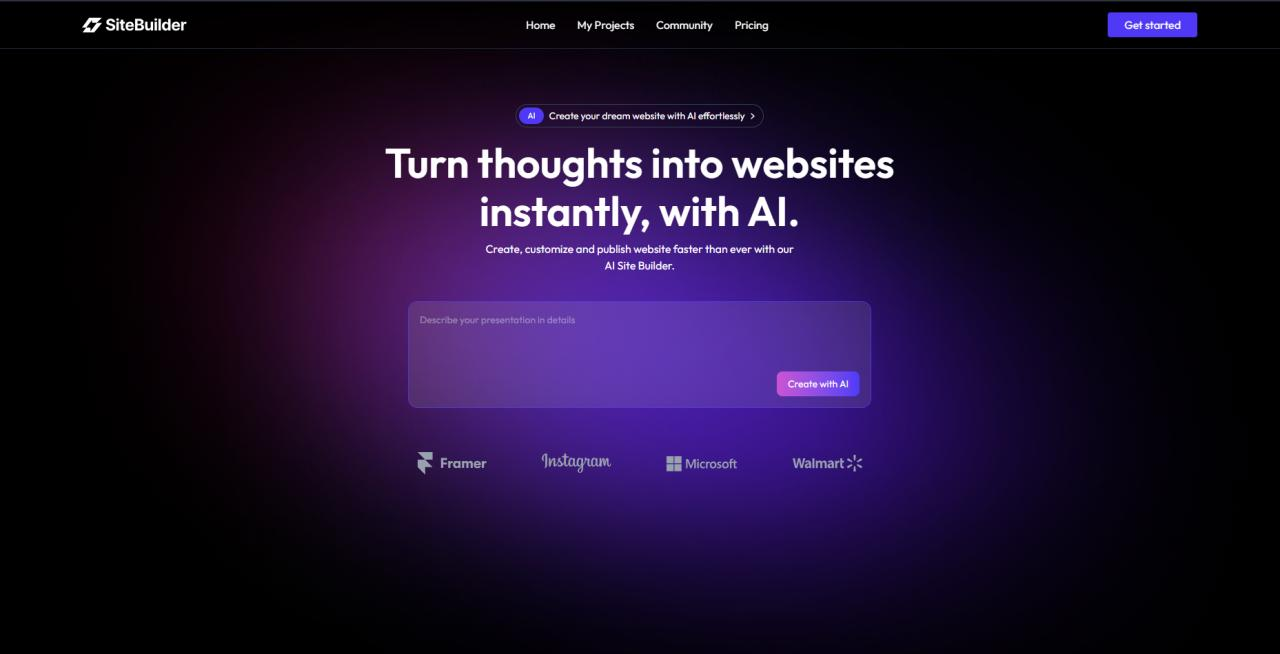
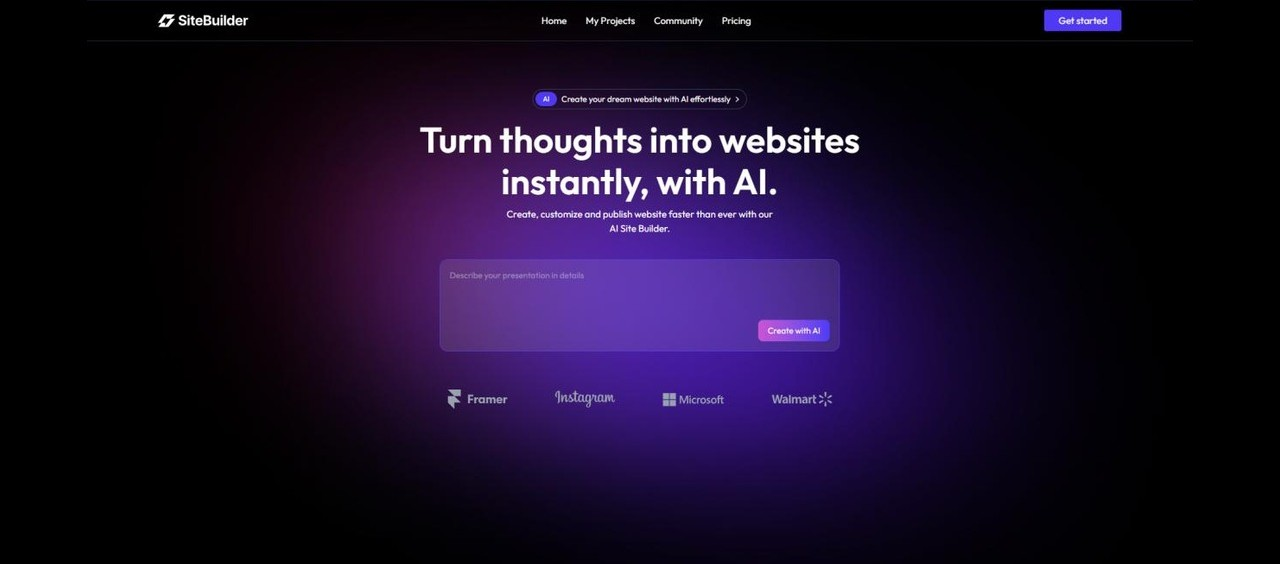
fixed responsivenes of recent project section

diff --git a/components/RecentProjects.tsx b/components/RecentProjects.tsx
@@ -1,11 +1,15 @@
 "use client";
 
+import { useState } from "react";
 import { FaLocationArrow } from "react-icons/fa6";
 
 import { projects } from "@/data";
 import { PinContainer } from "./ui/3d-pin";
+import Link from "next/link";
 
 const RecentProjects = () => {
+  const [hoveredProjectId, setHoveredProjectId] = useState<number | null>(null);
+
   return (
     <div className="w-full py-12 sm:py-16 lg:py-20">
       <h1 className="text-3xl lg:text-4xl 2xl:text-5xl font-bold text-center">
@@ -13,15 +17,18 @@ const RecentProjects = () => {
         <span className="text-purple-300">recent projects</span>
       </h1>
       <div className="mx-auto mt-8 grid w-full max-w-[1600px] grid-cols-1 items-start gap-x-6 gap-y-16 px-4 py-4 sm:mt-10 sm:px-6 md:grid-cols-2 md:gap-x-10 lg:gap-x-16 lg:gap-y-24 xl:gap-x-20 2xl:gap-x-24">
-        {projects.map((item) => (
+        {projects.map((item) => {
+          const isLivePreview = hoveredProjectId === item.id;
+
+          return (
           <div
             className="flex min-h-[28rem] w-full items-center justify-center sm:min-h-[32rem] lg:min-h-[36rem] 2xl:min-h-[40rem]"
             key={item.id}
           >
             <PinContainer
-              title={item.link}
-              href={item.link}
-              containerClassName={`w-full flex justify-center ${
+              title={isLivePreview ? item.liveLink : item.link}
+              href={isLivePreview ? item.liveLink : item.link}
+              containerClassName={`w-full flex justify-center" ${
                 item.id % 2 === 0 ? "xl:justify-start" : "xl:justify-end"
               }`}
             >
@@ -33,11 +40,13 @@ const RecentProjects = () => {
                       alt=""
                       className="absolute inset-0 h-full w-full object-cover"
                     />
-                    <img
-                      src={item.img}
-                      alt={item.title}
-                      className="relative z-10 h-full w-full object-contain p-4 sm:p-5"
-                    />
+                    <div className="relative z-10 flex h-full w-full items-end justify-center px-4 pt-4 sm:px-5 sm:pt-5">
+                      <img
+                        src={item.img}
+                        alt={item.title}
+                        className="h-full w-full rounded-lg object-cover rotate-1 [clip-path:inset(0_round_0.8rem)]"
+                      />
+                    </div>
                   </div>
                 </div>
 
@@ -71,16 +80,25 @@ const RecentProjects = () => {
                   </div>
 
                   <div className="flex justify-center items-center">
-                    <p className="flex lg:text-xl md:text-xs text-sm text-purple">
+                    <Link
+                      href={item.liveLink}
+                      target="_blank"
+                      onMouseEnter={() => setHoveredProjectId(item.id)}
+                      onMouseLeave={() => setHoveredProjectId(null)}
+                      onFocus={() => setHoveredProjectId(item.id)}
+                      onBlur={() => setHoveredProjectId(null)}
+                      className="flex lg:text-xl md:text-xs text-sm text-purple-300"
+                    >
                       Check Live Site
-                    </p>
+                    </Link>
                     <FaLocationArrow className="ms-3" color="#CBACF9" />
                   </div>
                 </div>
               </div>
             </PinContainer>
           </div>
-        ))}
+          );
+        })}
       </div>
     </div>
   );

diff --git a/data/index.ts b/data/index.ts
@@ -77,6 +77,7 @@ export const projects = [
     img: "/p1.jpg",
     iconLists: ["/re.svg", "/nodejs.svg", "/javascript.svg", "/mongodb.svg", "/git.svg"],
     link: "https://github.com/dir-hub/AI-Resume-Builder",
+    liveLink: "https://ai-resume-builder-tff9.vercel.app",
   },
   {
     id: 2,
@@ -85,6 +86,7 @@ export const projects = [
     img: "/p2.jpg",
     iconLists: ["/re.svg", "/nodejs.svg", "/ts.svg", "/postgresql.svg", "/git.svg"],
     link: "https://github.com/dir-hub/AI-Website-Builder",
+    liveLink: "https://ai-website-builder-coral.vercel.app",
   },
   {
     id: 3,
@@ -93,6 +95,7 @@ export const projects = [
     img: "/p3.jpg",
     iconLists: ["/re.svg", "/nodejs.svg", "/stripe.svg", "/mongodb.svg", "/git.svg"],
     link: "https://github.com/dir-hub/E-commerce-App",
+    liveLink: "https://forverecommerceclothing.vercel.app",
   },
   {
     id: 4,
@@ -101,6 +104,7 @@ export const projects = [
     img: "/p4.jpg",
     iconLists: ["/re.svg", "/nodejs.svg", "/c.svg", "/mongodb.svg", "/git.svg"],
     link: "https://github.com/dir-hub/Job-Portal",
+    liveLink: "https://job-portal-server-xi-nine.vercel.app",
   },
 ];
 

diff --git a/components/ui/3d-pin.tsx b/components/ui/3d-pin.tsx
@@ -37,6 +37,8 @@ export const PinContainer = ({
       onMouseEnter={onMouseEnter}
       onMouseLeave={onMouseLeave}
       href={href || "/"}
+      target="_blank"
+      rel="noopener noreferrer"
     >
       <div
         style={{
